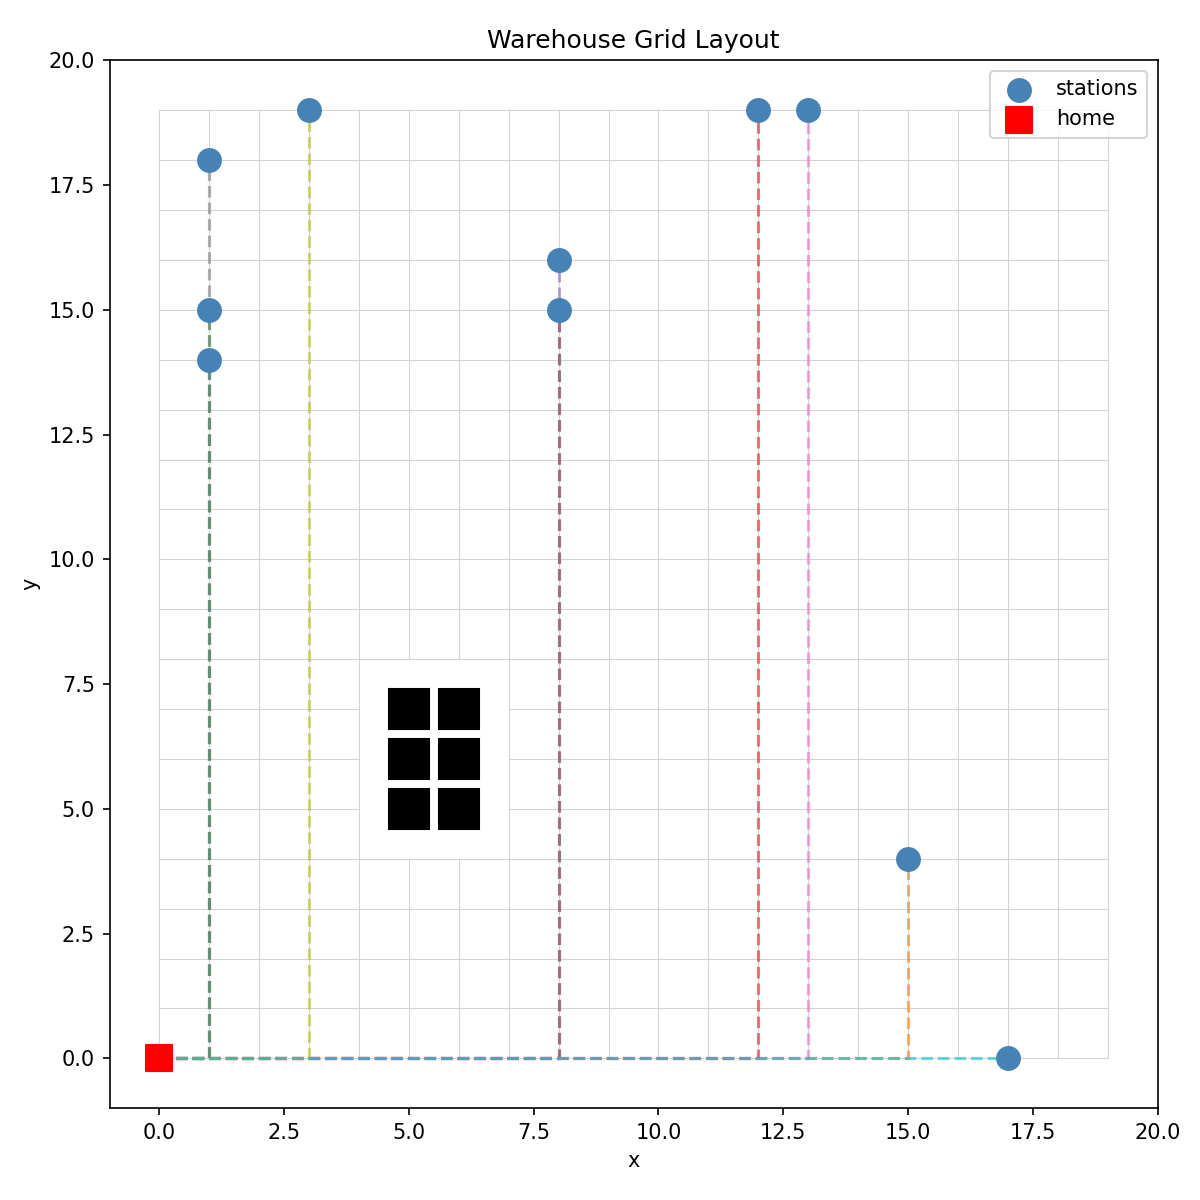
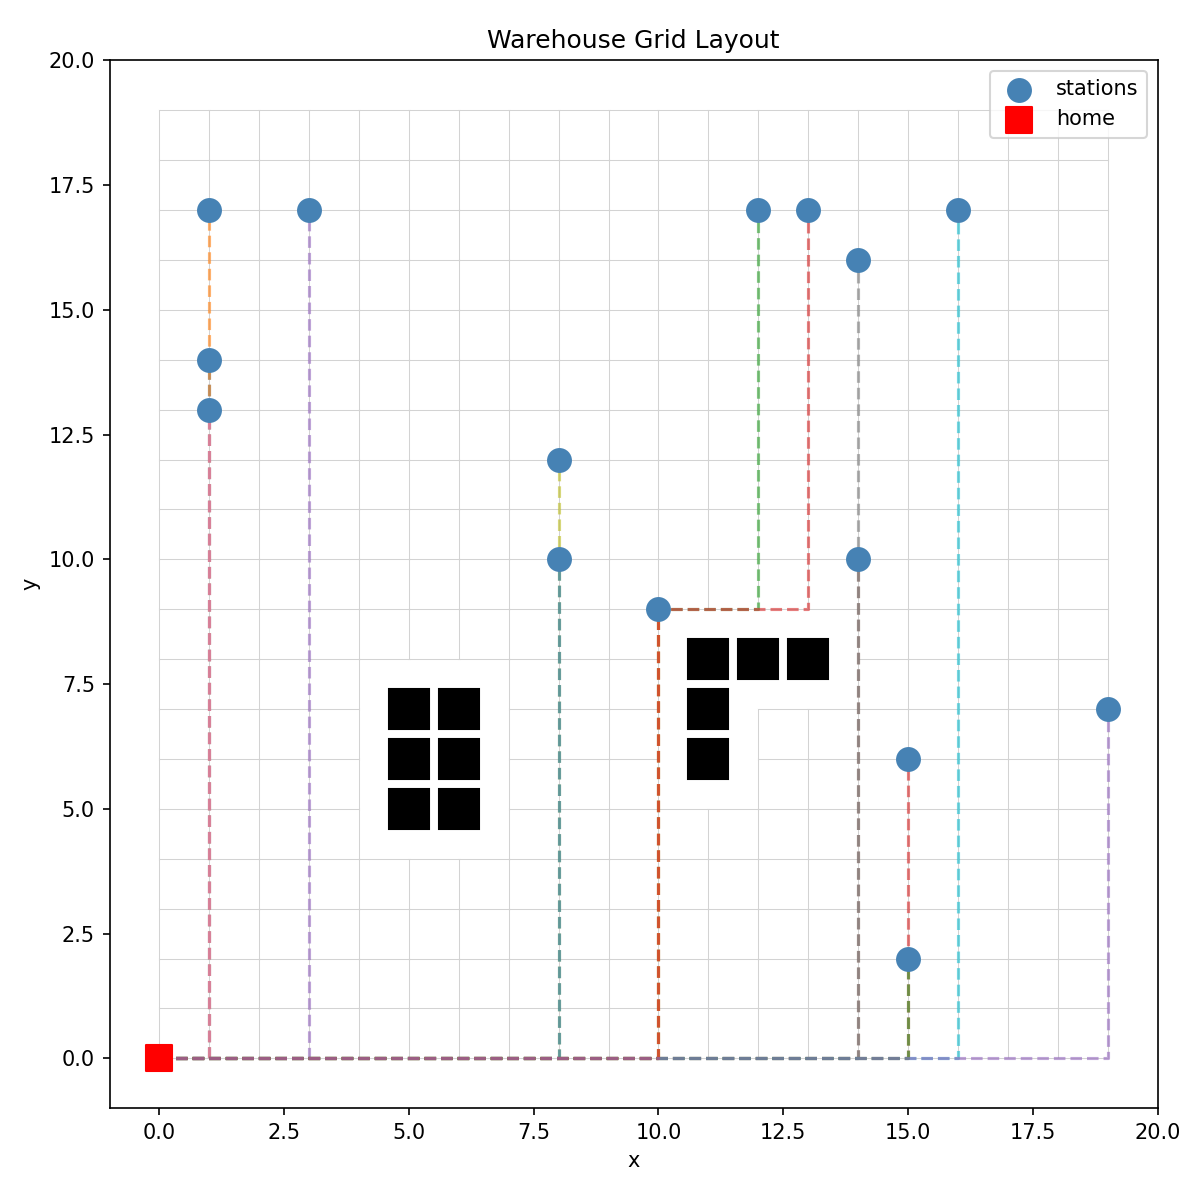
Added collision avoidance, deadlock resolution and more obstacle

diff --git a/sim/robot.py b/sim/robot.py
@@ -3,6 +3,9 @@ robot agent gets task from task master, travels to station, executes, returns an
 simple model without collision modeling, charge time, and no path planning.
 '''
 
+import networkx as nx
+
+
 class Robot:
     def __init__(self, env, robot_id, config, warehouse, metrics):
         self.env = env
@@ -23,11 +26,34 @@ class Robot:
 
             #----------travel-----------
             self.metrics.log_robot_status(self.id, "traveling", self.env.now)
-            path = self.warehouse.find_path(self.pos, task.station)                         # get travel path from motion planner
-            for step in path[1:]:
-                yield self.env.timeout(1.0 / self.config["robot_speed"])                    # every single grid step suspend to check for collision and log position
-                self.pos = step
-                self.metrics.log_robot_position(self.id, self.pos, self.env.now)
+            prev_req = None                                                                 # to track occupied cells
+            path = self.warehouse.find_path(self.pos, task.station)                         # get travel path from motion planner            
+
+            while self.pos != task.station:
+                for step in path[1:]:
+                    req = self.warehouse.cell_locks[step].request()                         # ask to use the resource (1 occupancy)
+                    timeout = self.env.timeout(self.config["deadlock_timeout"])
+
+                    result = yield req | timeout                                            # suspend until next cell becomes available (request fulfilled) or if a deadlock times out
+                    if req in result:                                                       # proceed normally
+                        if prev_req is not None:
+                            self.warehouse.cell_locks[self.pos].release(prev_req)           # free the resource (cell left behind)
+                        yield self.env.timeout(1.0 / self.config["robot_speed"])            # every single grid step suspend to check for collision and log position
+                        self.pos = step
+                        self.metrics.log_robot_position(self.id, self.pos, self.env.now)
+                        prev_req = req                                                      # carry forward to release next step
+                    else:                                                                   # if trapped deadlock, cancel request and reroute
+                        req.cancel()
+                        new_path = self._reroute(task.station, step)                        # reroute                                                  
+                        if new_path is not None:
+                            path = new_path
+                        else:
+                            yield self.env.timeout(self.config["deadlock_timeout"])         # if no alternative path available, wait another timeout and retry again
+                            path = self.warehouse.find_path(self.pos, task.station)
+                        break                                                               # once reroute found restart travel with a new path
+
+            if prev_req is not None:
+                self.warehouse.cell_locks[self.pos].release(prev_req)                       # free final station cell when arrived
 
             #---------execution---------
             self.metrics.log_robot_status(self.id, "working", self.env.now)
@@ -46,6 +72,18 @@ class Robot:
 
             #----------no return, stay at station-----------
             self.metrics.log_task_completed(task, self.id, self.env.now)                    # switched to stay at station so greedy policy makes sense
+
+
+    def _reroute(self, target, blocked_cell):
+        # finds an alternative path avoiding an occupied cell. Returns none if no alt. exists.
+
+        temp_graph = self.warehouse.graph.copy()
+        if blocked_cell in temp_graph:
+            temp_graph.remove_node(blocked_cell)
+        try:
+            return nx.astar_path(temp_graph, self.pos, target, heuristic=self.warehouse.heuristic)
+        except (nx.NetworkXNoPath, nx.NodeNotFound):
+            return None
 
 
 

diff --git a/sim/warehouse.py b/sim/warehouse.py
@@ -14,12 +14,15 @@ class Warehouse:
         self.grid_size = (20, 20)
         self.home = (0,0)                                                                   # robot start/return position
 
-        self.graph = nx.grid_2d_graph(self.grid_size[0], self.grid_size[1])                 # let nx to manage grid for motion planning
+        self.graph = nx.grid_2d_graph(self.grid_size[0], self.grid_size[1])                 # let nx to manage grid for motion planning        
 
-        self.obstacles = [(5, 5), (5, 6), (5, 7), (6, 5), (6, 6), (6, 7)]                   # a wall obstacle
+        self.obstacles = [(5, 5), (5, 6), (5, 7), (6, 5), (6, 6), (6, 7), 
+                          (11, 6), (11, 7), (11, 8), (12, 8), (13, 8)]                      # obstacles
         for obs in self.obstacles:
             if obs in self.graph:
                 self.graph.remove_node(obs)
+
+        self.cell_locks = {n: simpy.Resource(env, capacity=1) for n in self.graph.nodes}    # lock occupied cells to avoid collision
 
         rng = np.random.default_rng(config["seed"])                                         # initiate an rng generator
         valid_nodes = list(self.graph.nodes)                                                # exclude obstacles

diff --git a/README.md b/README.md
@@ -1,7 +1,7 @@
 # DES-warehouse
 
 This is a Discrete-Event Simulation (DES) planner for a multi-agent environment where a fleet of robots perform warehouse tasks to optimize aggregate throughput.\
-The queue assignment policy is either FIFO or greedy. Current version includes obstacles and path planning using A-star but has no collision modeling and charging idle time.\
+The queue assignment policy is either FIFO or greedy. Current version includes obstacles, path planning using A-star, and cell-lock collision management with deadlock resolution but has no charging idle time.\
 Greedy assignment is task-centered selecting nearest robot to the task. A Monte Carlo statistical analysis analyzes whether greedy policy has significant advantage over simple FIFO.
 
 ## Project Layout